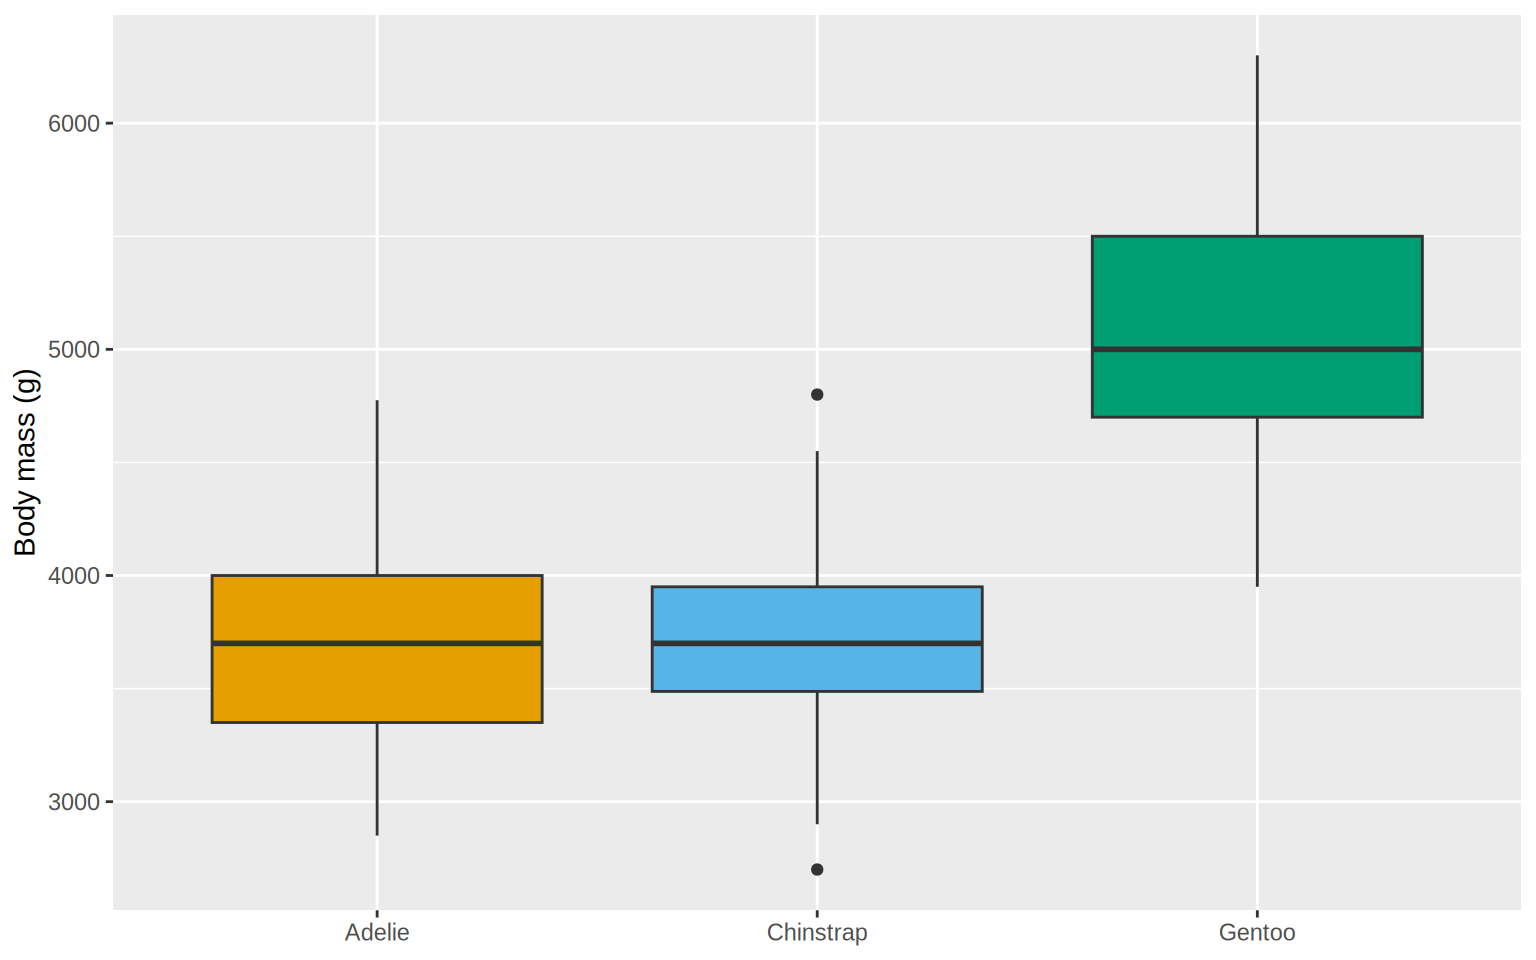
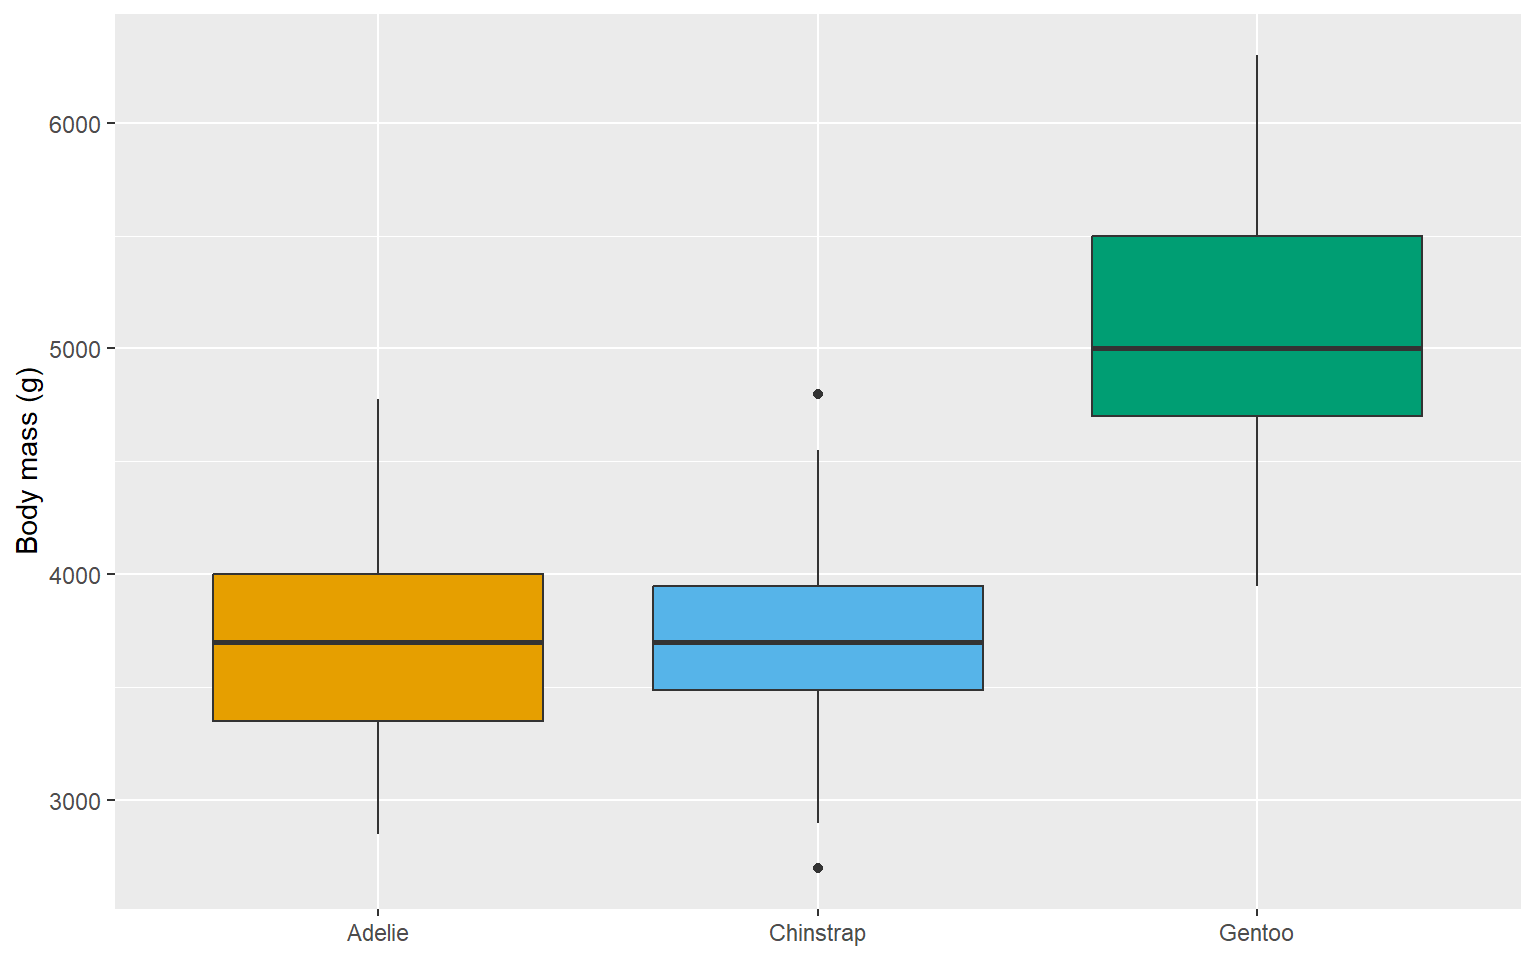
Built site for gh-pages

diff --git a/labs/quarto/index.html b/labs/quarto/index.html
@@ -383,9 +383,6 @@ Figure&nbsp;1: Target: bill length versus depth by species.
 </div>
 </div>
 <p><strong>Need to continue with Part 2?</strong> <code>starter.qmd</code> is a completed Part-1 document. It is already in <code>day1-intro/</code>. Open it to continue with citations, or take the source:</p>
-<!-- Raw-GitHub download button -- RaukR house pattern (see project-context.md; no `downloadthis`).
-     Points at the exercises repo (main = current edition); goes live once cderv/raukr-2026-quarto-exercises
-     is created (the file also ships locally in every participant's day1-intro/). -->
 <p><a class="btn btn-primary btn-sm" href="https://raw.githubusercontent.com/cderv/raukr-2026-quarto-exercises/main/day1-intro/starter.qmd" role="button" target="_blank"><i class="fa-solid fa-download" aria-label="download"></i> starter.qmd</a></p>
 <p>The cross-references and the equation live in the <strong>body Markdown</strong>, outside any cell:</p>
 <div class="code-copy-outer-scaffold"><div class="sourceCode" id="cb4"><pre class="sourceCode markdown code-with-copy"><code class="sourceCode markdown"><span id="cb4-1"><a href="#cb4-1" aria-hidden="true" tabindex="-1"></a>@fig-bill shows bill shape by species. @tbl-summary gives the per-species means.</span>
@@ -394,9 +391,6 @@ Figure&nbsp;1: Target: bill length versus depth by species.
 <span id="cb4-4"><a href="#cb4-4" aria-hidden="true" tabindex="-1"></a>\text{ratio} = \frac{\text{bill<span class="sc">\_</span>len}}{\text{bill<span class="sc">\_</span>dep}}</span>
 <span id="cb4-5"><a href="#cb4-5" aria-hidden="true" tabindex="-1"></a>$$ {#eq-ratio}</span></code></pre></div><button title="Copy to Clipboard" class="code-copy-button"><i class="bi"></i></button></div>
 <p><strong><code>solutions/day1/penguins-report.qmd</code> is the complete Day-1 reference.</strong> The document goes beyond the tasks (an additional margin figure, a <code>glimpse</code>, and section labels) and also adds the citations from the next challenge. It’s in your exercises <code>solutions/day1/</code> folder. Try the challenge first, then open it to compare, or take the source:</p>
-<!-- Raw-GitHub download button -- RaukR house pattern (see project-context.md; no `downloadthis`).
-     Points at the exercises repo (main = current edition); goes live once cderv/raukr-2026-quarto-exercises
-     is created (the file also ships locally in solutions/day1/). -->
 <p><a class="btn btn-primary btn-sm" href="https://raw.githubusercontent.com/cderv/raukr-2026-quarto-exercises/main/solutions/day1/penguins-report.qmd" role="button" target="_blank"><i class="fa-solid fa-download" aria-label="download"></i> penguins-report.qmd</a></p>
 </section>
 <section id="citations-challenge" class="level2 page-columns page-full" data-number="2">
@@ -628,9 +622,6 @@ Figure&nbsp;1: Target: bill length versus depth by species.
 </div>
 </div>
 <p><strong>The complete, runnable solution is <code>solutions/day1/penguins-by-species.qmd</code>.</strong> Open it to compare your work or render it with different <code>-P species:</code> values. You can also take the source:</p>
-<!-- Raw-GitHub download button -- RaukR house pattern (see project-context.md; no `downloadthis`).
-     Points at the exercises repo (main = current edition); goes live once cderv/raukr-2026-quarto-exercises
-     is created (the file also ships locally in solutions/day1/). -->
 <p><a class="btn btn-primary btn-sm" href="https://raw.githubusercontent.com/cderv/raukr-2026-quarto-exercises/main/solutions/day1/penguins-by-species.qmd" role="button" target="_blank"><i class="fa-solid fa-download" aria-label="download"></i> penguins-by-species.qmd</a></p>
 </section>
 <section id="troubleshooting" class="level2" data-number="4">
@@ -681,9 +672,8 @@ Matrix products: default
   LAPACK version 3.12.1
 
 locale:
-[1] LC_COLLATE=French_France.utf8  LC_CTYPE=French_France.utf8   
-[3] LC_MONETARY=French_France.utf8 LC_NUMERIC=C                  
-[5] LC_TIME=French_France.utf8    
+[1] C
+system code page: 65001
 
 time zone: Europe/Paris
 tzcode source: internal

diff --git a/labs/quarto-projects/index.html b/labs/quarto-projects/index.html
@@ -241,13 +241,11 @@ pre > code.sourceCode > span > a:first-child::before { text-decoration: underlin
 
 
 <div class="cell">
-<div class="code-copy-outer-scaffold"><div class="sourceCode cell-code" id="cb1"><pre class="sourceCode r code-with-copy"><code class="sourceCode r"><span id="cb1-1"><a href="#cb1-1" aria-hidden="true" tabindex="-1"></a><span class="co"># Renders the target figure shown further down this page — you'll do the actual</span></span>
-<span id="cb1-2"><a href="#cb1-2" aria-hidden="true" tabindex="-1"></a><span class="co"># work inside your day2-projects/ folder, not here. This cell is not step zero.</span></span>
-<span id="cb1-3"><a href="#cb1-3" aria-hidden="true" tabindex="-1"></a><span class="fu">library</span>(dplyr)</span>
-<span id="cb1-4"><a href="#cb1-4" aria-hidden="true" tabindex="-1"></a><span class="fu">library</span>(ggplot2)</span>
-<span id="cb1-5"><a href="#cb1-5" aria-hidden="true" tabindex="-1"></a><span class="fu">library</span>(ggokabeito)   <span class="co"># color-blind-safe (Okabe-Ito) scale, same as Day 1</span></span>
-<span id="cb1-6"><a href="#cb1-6" aria-hidden="true" tabindex="-1"></a><span class="fu">data</span>(penguins)</span>
-<span id="cb1-7"><a href="#cb1-7" aria-hidden="true" tabindex="-1"></a>penguins <span class="ot">&lt;-</span> penguins <span class="sc">|&gt;</span> <span class="fu">filter</span>(<span class="sc">!</span><span class="fu">is.na</span>(bill_len), <span class="sc">!</span><span class="fu">is.na</span>(bill_dep), <span class="sc">!</span><span class="fu">is.na</span>(body_mass))</span></code></pre></div><button title="Copy to Clipboard" class="code-copy-button"><i class="bi"></i></button></div>
+<div class="code-copy-outer-scaffold"><div class="sourceCode cell-code" id="cb1"><pre class="sourceCode r code-with-copy"><code class="sourceCode r"><span id="cb1-1"><a href="#cb1-1" aria-hidden="true" tabindex="-1"></a><span class="fu">library</span>(dplyr)</span>
+<span id="cb1-2"><a href="#cb1-2" aria-hidden="true" tabindex="-1"></a><span class="fu">library</span>(ggplot2)</span>
+<span id="cb1-3"><a href="#cb1-3" aria-hidden="true" tabindex="-1"></a><span class="fu">library</span>(ggokabeito)   <span class="co"># color-blind-safe (Okabe-Ito) scale, same as Day 1</span></span>
+<span id="cb1-4"><a href="#cb1-4" aria-hidden="true" tabindex="-1"></a><span class="fu">data</span>(penguins)</span>
+<span id="cb1-5"><a href="#cb1-5" aria-hidden="true" tabindex="-1"></a>penguins <span class="ot">&lt;-</span> penguins <span class="sc">|&gt;</span> <span class="fu">filter</span>(<span class="sc">!</span><span class="fu">is.na</span>(bill_len), <span class="sc">!</span><span class="fu">is.na</span>(bill_dep), <span class="sc">!</span><span class="fu">is.na</span>(body_mass))</span></code></pre></div><button title="Copy to Clipboard" class="code-copy-button"><i class="bi"></i></button></div>
 </div>
 <div class="callout callout-style-default callout-note callout-titled">
 <div class="callout-header d-flex align-content-center">
@@ -1051,9 +1049,8 @@ Matrix products: default
   LAPACK version 3.12.1
 
 locale:
-[1] LC_COLLATE=French_France.utf8  LC_CTYPE=French_France.utf8   
-[3] LC_MONETARY=French_France.utf8 LC_NUMERIC=C                  
-[5] LC_TIME=French_France.utf8    
+[1] C
+system code page: 65001
 
 time zone: Europe/Paris
 tzcode source: internal

diff --git a/labs/quarto-projects/dashboard.html b/labs/quarto-projects/dashboard.html
@@ -177,14 +177,6 @@ ul.task-list li input[type="checkbox"] {
 <!-- margin-sidebar -->
 <!-- main -->
 
-<!--
-Day-2 "Demos — if time" artifact. A self-contained, STATIC `format: dashboard`
-page: no Shiny/OJS backend, so it opens as plain HTML anywhere. The teaching point is the
-LAYOUT MODEL (rows, valueboxes, a card, a tabset), not plot color — the RaukR brand is
-monochrome teal and can't separate three species by hue (see the Day-1 payoff figure), so the
-plots keep ggplot's default fills; the brand carries through the dashboard *chrome* (header,
-fonts, valuebox color) via the project `_brand.yml`.
--->
 <!-- `##` starts a row, `###` a column; the heading text ("Row"/"Column") is just a label. -->
 <div class="bslib-grid-item html-fill-item bslib-grid" data-layout="fill" style="display: grid; grid-template-rows: minmax(3em, 20fr) minmax(3em, 80fr); grid-auto-columns: minmax(0, 1fr);">
 <div class="bslib-grid" style="display: grid; grid-template-columns: minmax(3em, 1fr) minmax(3em, 1fr);

diff --git a/slides/quarto-projects/index.html b/slides/quarto-projects/index.html
@@ -778,7 +778,7 @@ Christophe Dervieux
 <li>optionally publish the site to Posit Connect Cloud.</li>
 </ul>
 <div class="fragment">
-<p><strong>You’ve built the two axes:</strong> one document to a branded PDF (Day 1), one folder to a published site (Day 2), with yesterday’s report now a page of it. Everything your <strong>team project</strong> needs.</p>
+<p><strong>You’ve built the two axes:</strong> one document to a branded PDF (Day 1), one folder to a site ready to publish (Day 2), with yesterday’s report now a page of it. Everything your <strong>team project</strong> needs.</p>
 <aside class="notes">
 <ul>
 <li><strong>Close with:</strong> “Yesterday’s document is now a page of today’s site.”</li>
